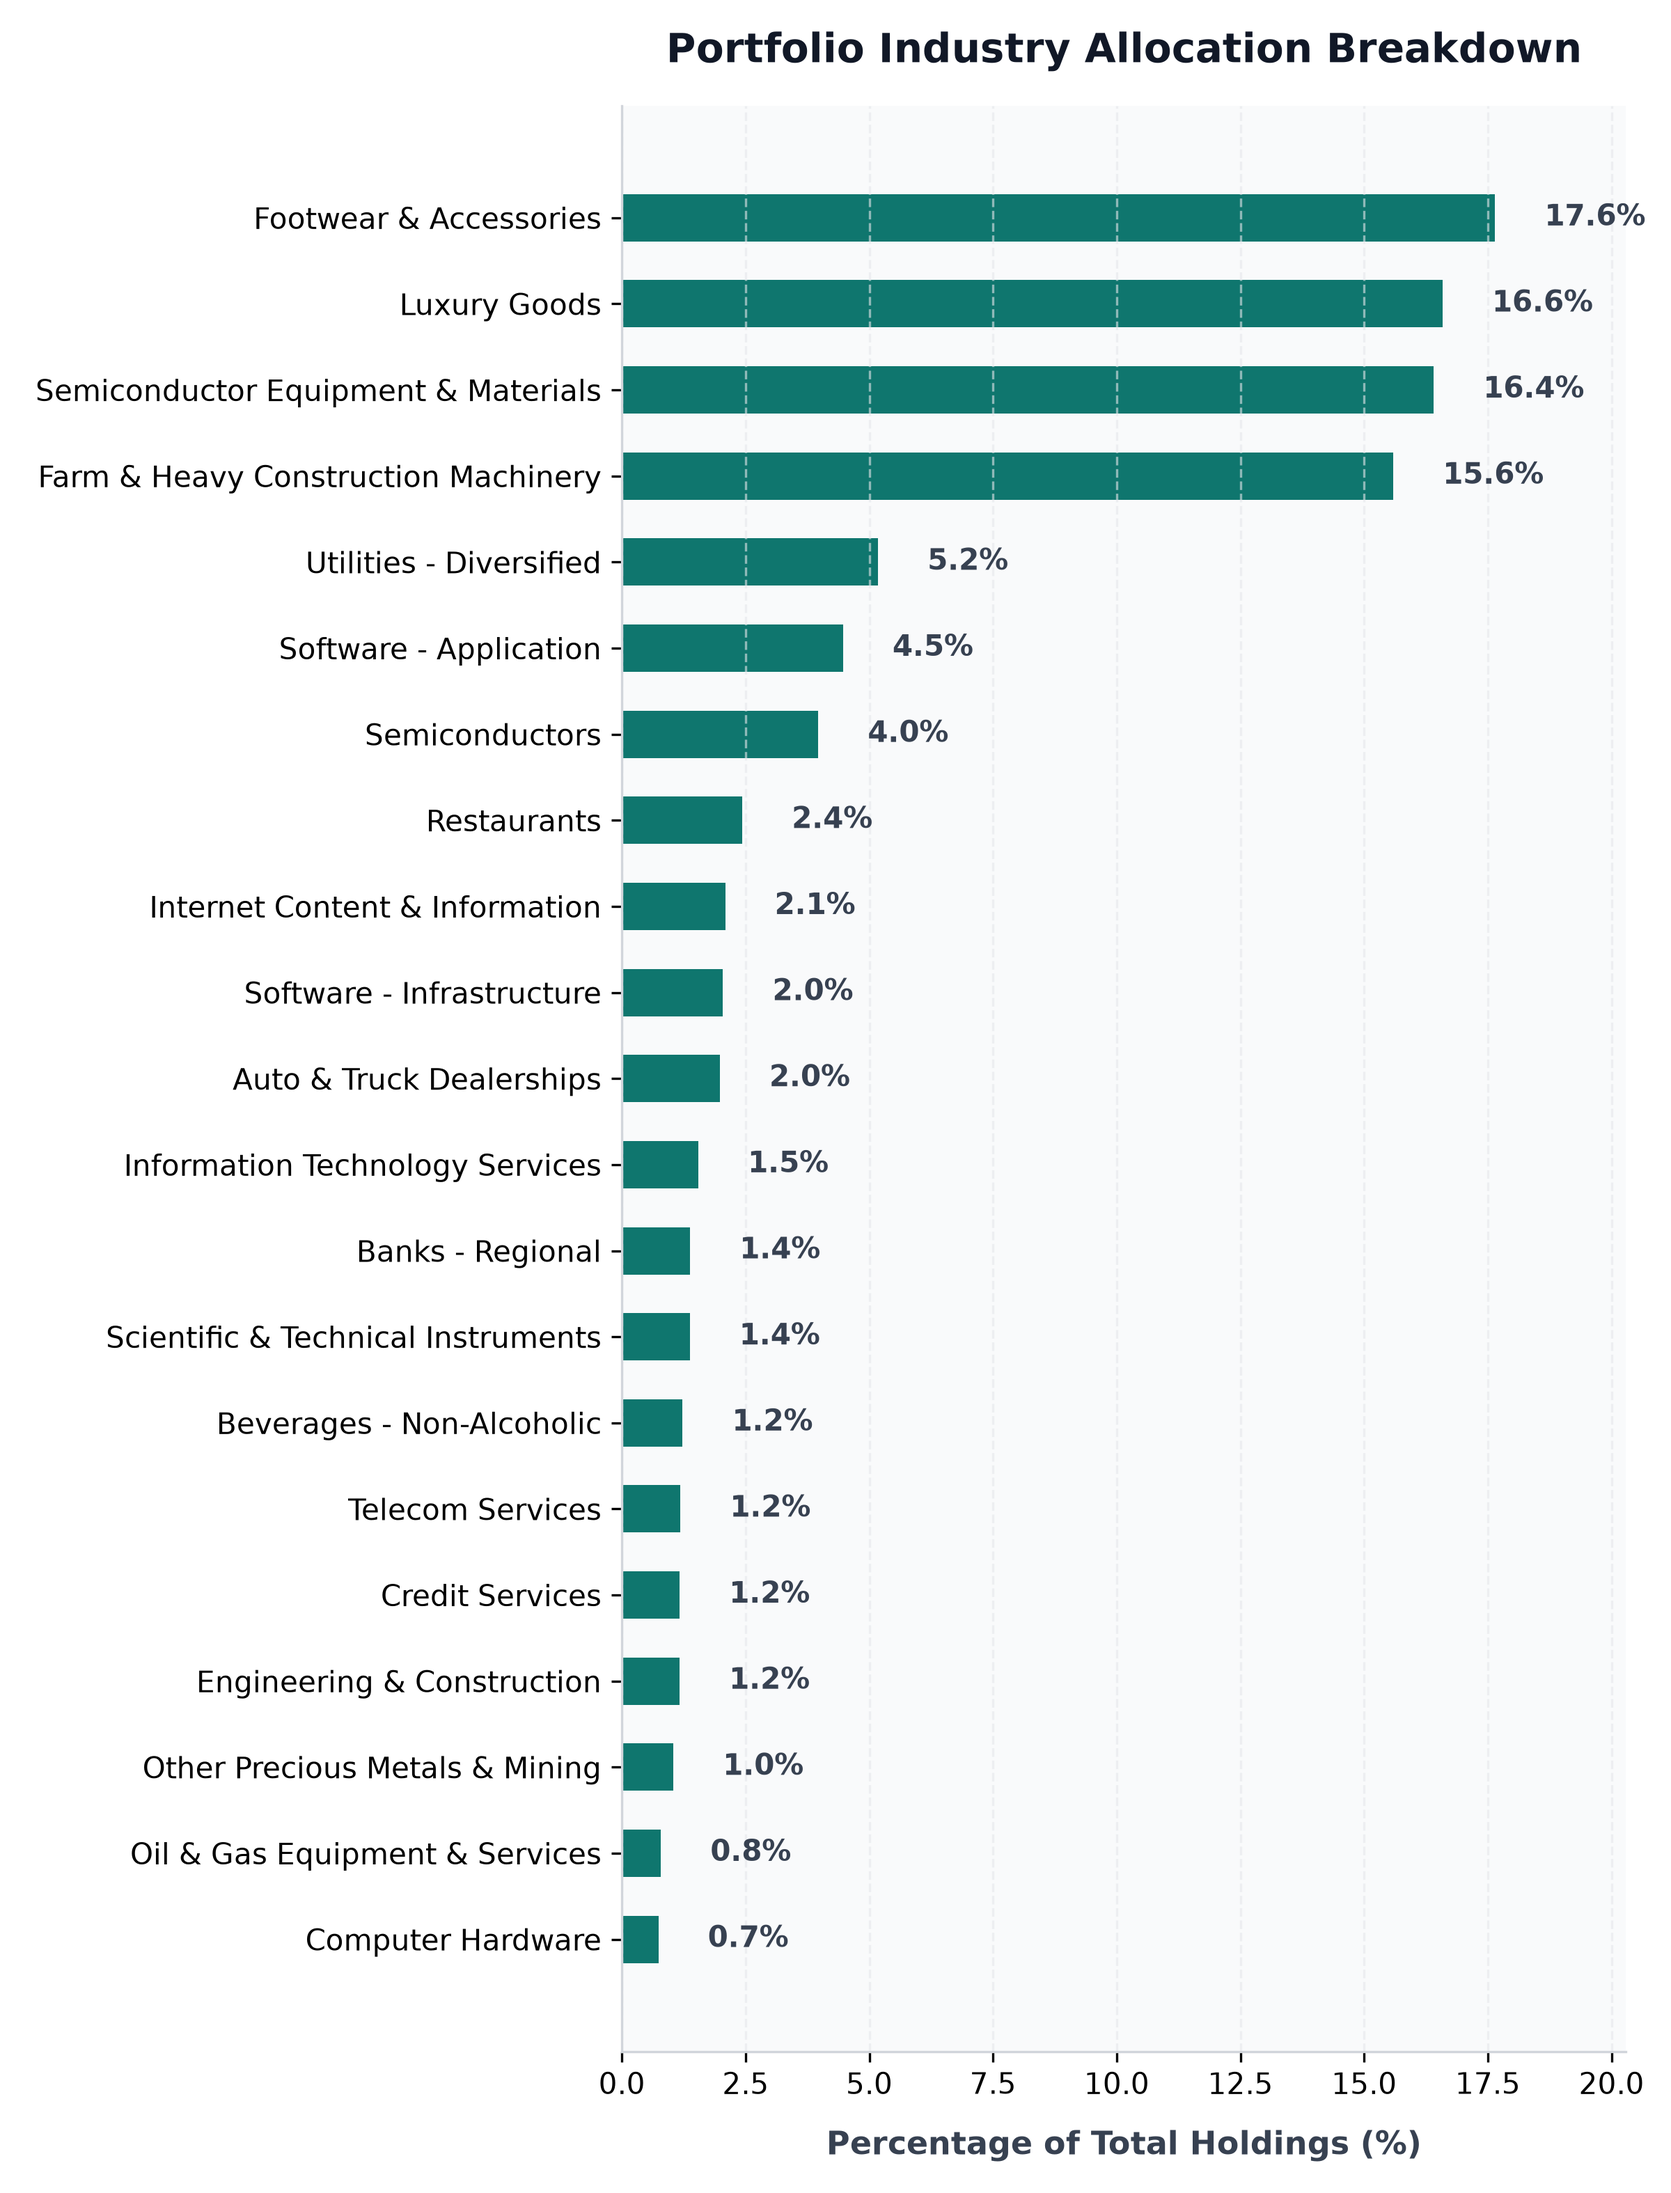
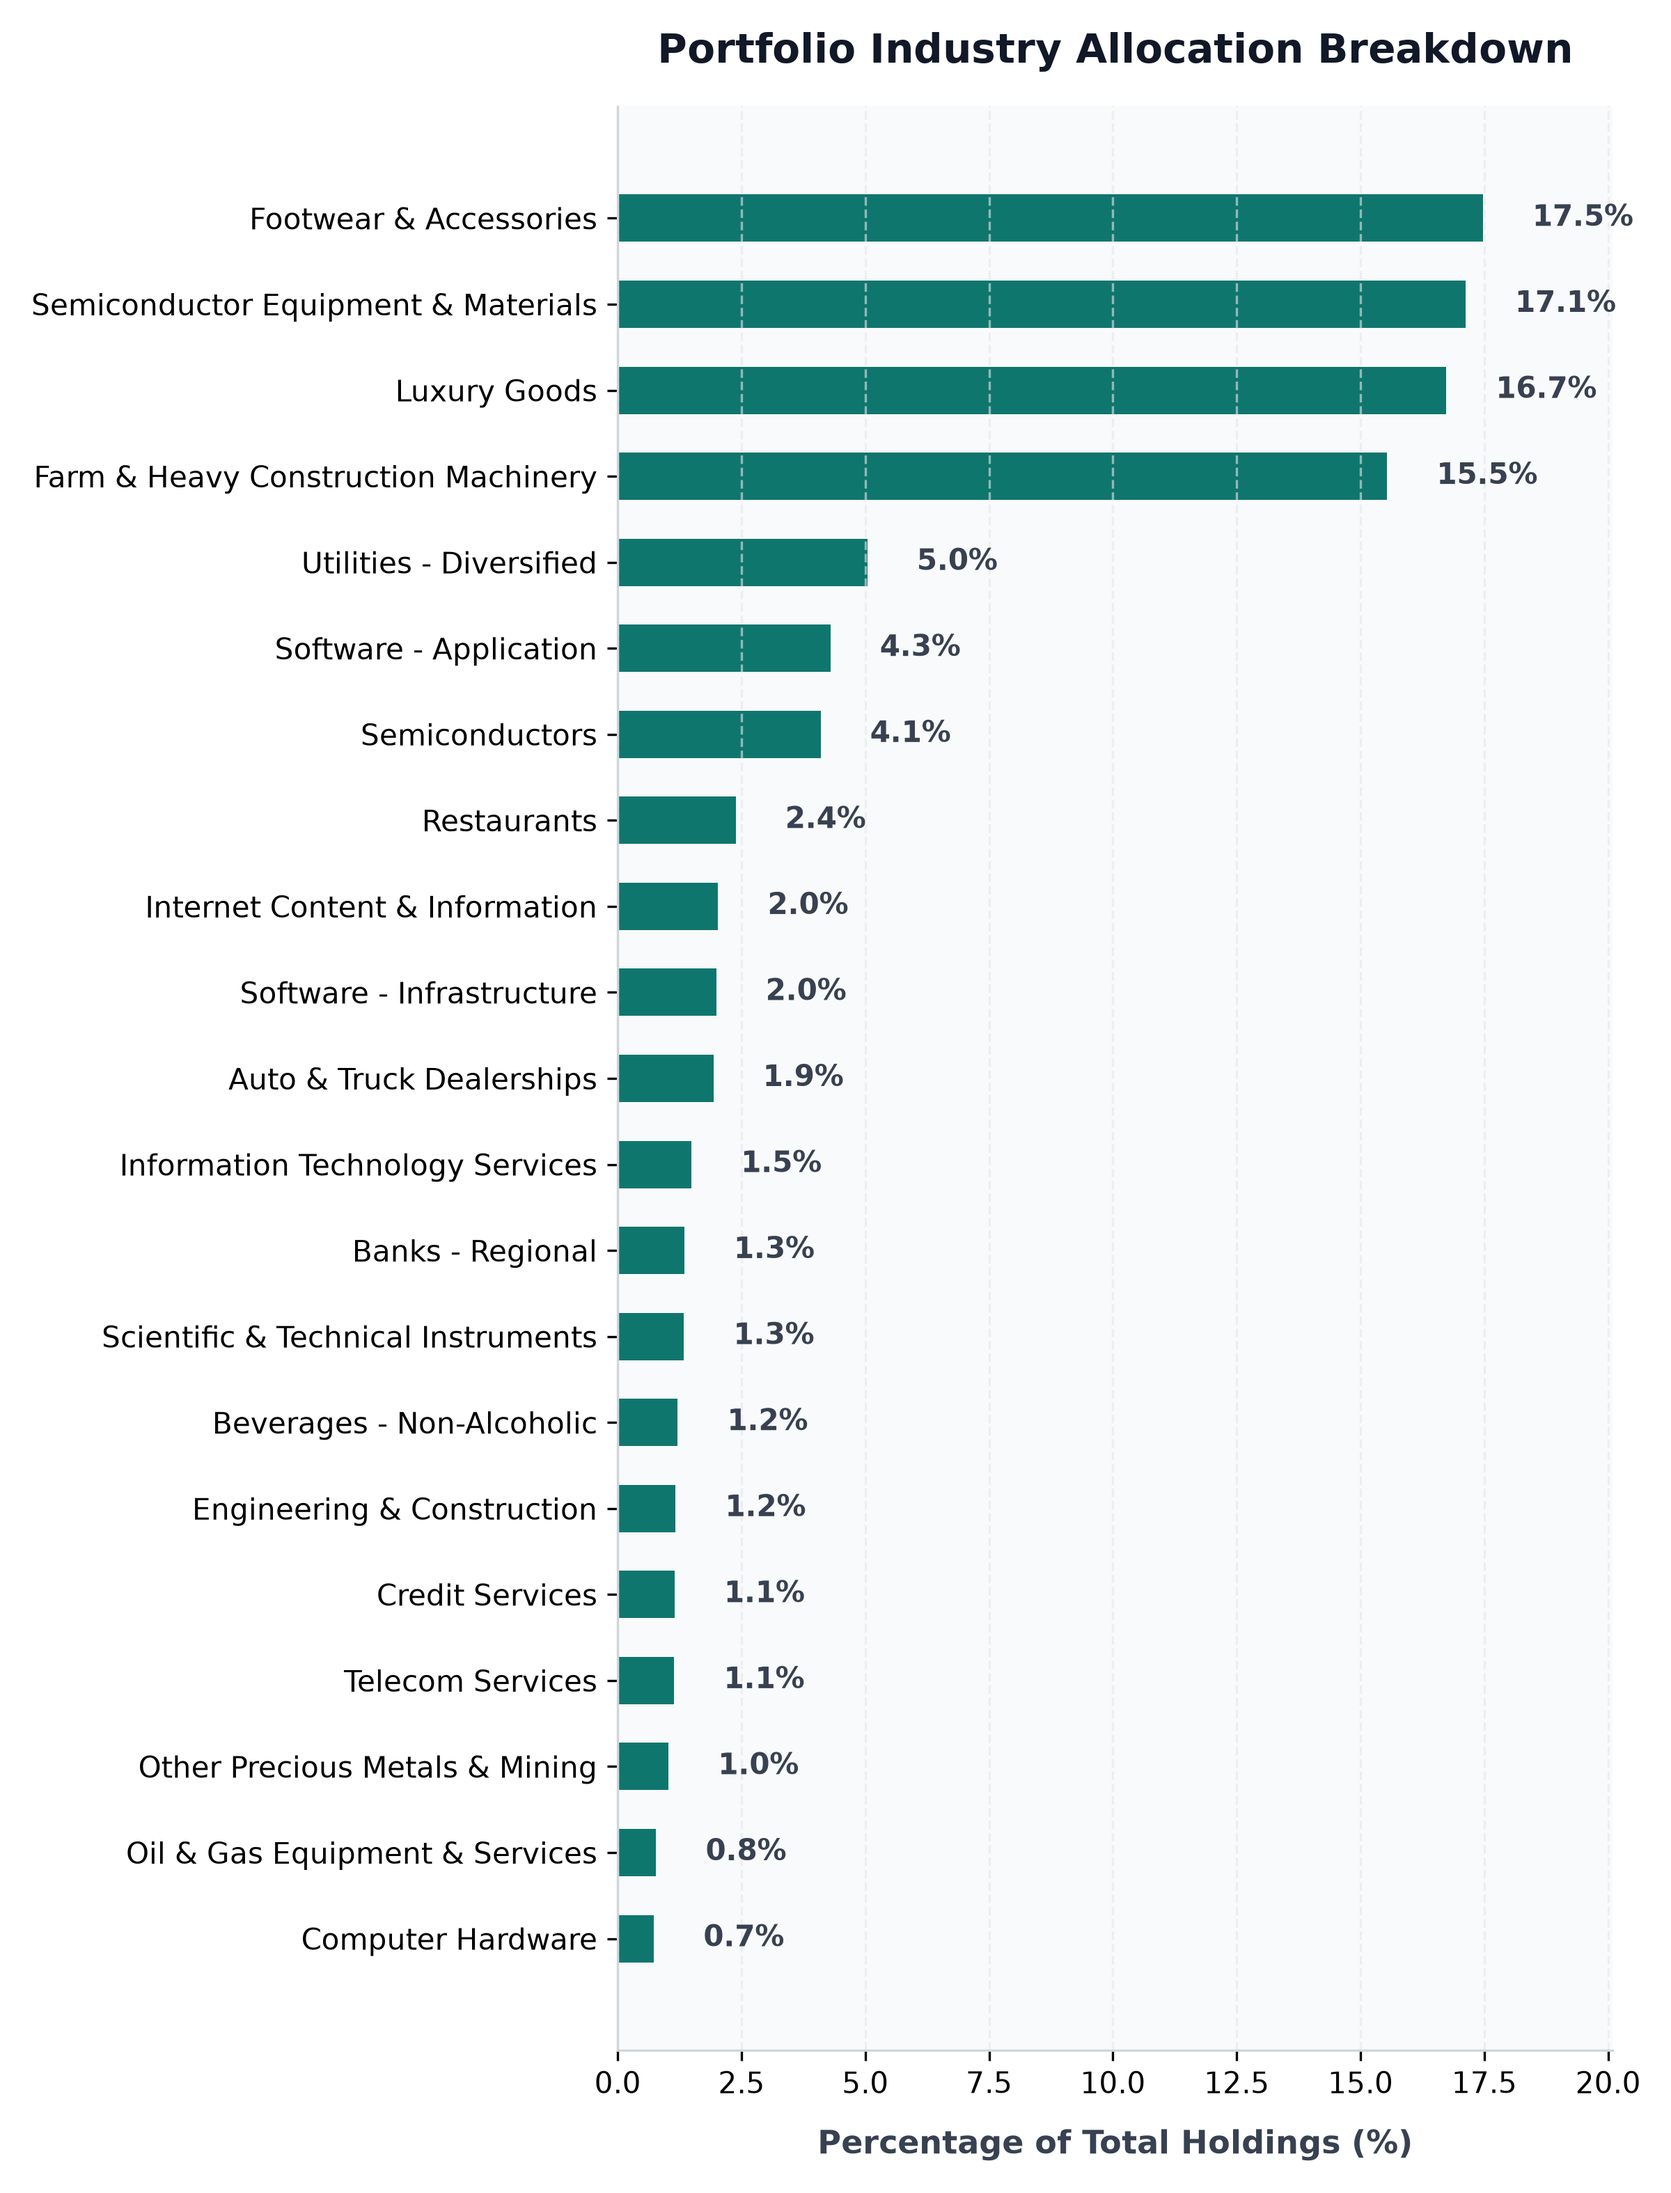
auto: daily portfolio status update - 2026-11-10 00:00:14

diff --git a/src/utils/getPortfolioMetrics.ts b/src/utils/getPortfolioMetrics.ts
@@ -334,3 +334,4 @@ export function getPortfolioMetrics(): PortfolioMetrics {
     tier3Count,
   };
 }
+

diff --git a/src/content/posts/portfolio-performance.md b/src/content/posts/portfolio-performance.md
@@ -1,6 +1,6 @@
 ---
 title: "BadOmen Algorithmic Portfolio Performance & PnL Report"
-pubDatetime: 2026-11-07T06:05:15.388546+08:00
+pubDatetime: 2026-11-10T00:00:14.206508+08:00
 description: "Live performance metrics, active holdings, and historic equity curve for the BadOmen automated paper trading portfolio."
 featured: true
 draft: false
@@ -10,63 +10,63 @@ tags:
   - pnl
 ---
 
-# BadOmen Portfolio Performance & PnL Report
+# 📈 BadOmen Portfolio Performance & PnL Report
 Welcome to the live performance dashboard for **BadOmen**, our automated algorithmic growth portfolio. This page displays the historic PnL growth curve, account statistics, active position metrics, and recent historical exits. Updated daily via Alpaca Paper Account integrations.
 
-## Portfolio Summary
+## 📊 Portfolio Summary
 | Performance Metric | Value | description |
 | :--- | :--- | :--- |
-| **Net Portfolio Equity** | **$102,383.47** | Total current liquidation value of cash and stock holdings |
-| **Total Unrealized P&L** | 🔴 **$-461.17** (-0.45%) | Total return of current open holdings |
+| **Net Portfolio Equity** | **$105,427.70** | Total current liquidation value of cash and stock holdings |
+| **Total Unrealized P&L** | 🟢 **+$2,586.12** (+2.51%) | Total return of current open holdings |
 | **Cash Balance** | $16,312.67 | Idle reserve currency available for limit orders |
-| **Buying Power** | $306,248.91 | Margin-backed buying power for entry allocations |
-| **Report Updated** | `2026-11-07 06:05:15 (SGT)` | Timestamp of daily execution and sync run |
+| **Buying Power** | $314,772.76 | Margin-backed buying power for entry allocations |
+| **Report Updated** | `2026-11-10 00:00:14 (SGT)` | Timestamp of daily execution and sync run |
 
-## Net Equity Growth Curve
+## 📈 Net Equity Growth Curve
 The chart below illustrates the historical performance of the account starting from our baseline capital funding of $100,000.00.
 
 ![Portfolio PnL History](/pnl_chart.png)
 
-## Industry Allocation Breakdown
+## 🏷 Industry Allocation Breakdown
 The chart below illustrates the exposure of our currently held active positions grouped by industry classification.
 
 ![Industry Allocation Breakdown](/industry_chart.png)
 
-## Current Position Holdings
+## 💼 Current Position Holdings
 | Ticker | Industry | Shares Owned | Average Entry Cost | Current Price | Unrealized P&L | Return (%) |
 | :--- | :--- | :--- | :--- | :--- | :--- | :--- |
-| **AN** | Auto & Truck Dealerships | 5 | $188.51 | $184.00 | 🔴 $-22.54 | -2.39% |
-| **AVGO** | Semiconductors | 1 | $385.71 | $294.75 | 🔴 $-90.96 | -23.58% |
-| **BIRK** | Footwear & Accessories | 407 | $37.32 | $37.32 | 🟢 +$0.93 | +0.01% |
-| **BLBD** | Farm & Heavy Construction Machinery | 231 | $65.52 | $58.09 | 🔴 $-1,715.40 | -11.34% |
-| **BVN** | Other Precious Metals & Mining | 32 | $31.88 | $27.99 | 🔴 $-124.32 | -12.19% |
-| **CELH** | Beverages - Non-Alcoholic | 33 | $29.71 | $32.02 | 🟢 +$76.09 | +7.76% |
-| **CPRI** | Luxury Goods | 695 | $14.13 | $20.54 | 🟢 +$4,453.48 | +45.34% |
-| **DUOL** | Software - Application | 14 | $131.04 | $160.39 | 🟢 +$410.84 | +22.39% |
-| **FIS** | Information Technology Services | 23 | $41.79 | $28.69 | 🔴 $-301.32 | -31.35% |
-| **GDDY** | Software - Infrastructure | 6 | $76.21 | $114.38 | 🟢 +$229.02 | +50.09% |
-| **GDS** | Information Technology Services | 30 | $32.77 | $22.35 | 🔴 $-312.60 | -31.80% |
-| **GGAL** | Banks - Regional | 17 | $56.04 | $29.44 | 🔴 $-452.19 | -47.47% |
-| **GOOGL** | Internet Content & Information | 3 | $319.44 | $285.15 | 🔴 $-102.87 | -10.73% |
-| **GPI** | Auto & Truck Dealerships | 3 | $316.15 | $261.35 | 🔴 $-164.40 | -17.33% |
-| **HUBS** | Software - Application | 8 | $221.18 | $200.21 | 🔴 $-167.77 | -9.48% |
-| **ITRI** | Scientific & Technical Instruments | 12 | $81.80 | $98.44 | 🟢 +$199.68 | +20.34% |
-| **KBR** | Engineering & Construction | 27 | $36.23 | $37.17 | 🟢 +$25.30 | +2.59% |
-| **LRCX** | Semiconductor Equipment & Materials | 70 | $214.93 | $201.75 | 🔴 $-922.82 | -6.13% |
-| **NESR** | Oil & Gas Equipment & Services | 34 | $28.74 | $19.96 | 🔴 $-298.52 | -30.55% |
-| **NU** | Banks - Regional | 57 | $11.60 | $12.04 | 🟢 +$25.17 | +3.81% |
-| **ON** | Semiconductors | 10 | $90.45 | $63.81 | 🔴 $-266.46 | -29.46% |
-| **ORCL** | Software - Infrastructure | 5 | $181.95 | $116.05 | 🔴 $-329.50 | -36.22% |
-| **PATH** | Software - Infrastructure | 38 | $10.25 | $12.97 | 🟢 +$103.36 | +26.54% |
-| **PYPL** | Credit Services | 17 | $56.05 | $59.14 | 🟢 +$52.53 | +5.51% |
-| **QCOM** | Semiconductors | 15 | $193.68 | $165.55 | 🔴 $-422.02 | -14.53% |
-| **SMCI** | Computer Hardware | 22 | $29.25 | $28.83 | 🔴 $-9.24 | -1.44% |
-| **SRE** | Utilities - Diversified | 57 | $84.75 | $78.17 | 🔴 $-375.20 | -7.77% |
-| **T** | Telecom Services | 47 | $20.85 | $21.68 | 🟢 +$38.79 | +3.96% |
-| **WEN** | Restaurants | 257 | $8.02 | $8.15 | 🟢 +$32.55 | +1.58% |
-| **ZG** | Internet Content & Information | 31 | $31.35 | $30.36 | 🔴 $-30.79 | -3.17% |
+| **AN** | Auto & Truck Dealerships | 5 | $188.51 | $185.09 | 🔴 $-17.07 | -1.81% |
+| **AVGO** | Semiconductors | 1 | $385.71 | $320.16 | 🔴 $-65.55 | -16.99% |
+| **BIRK** | Footwear & Accessories | 407 | $37.32 | $38.26 | 🟢 +$381.47 | +2.51% |
+| **BLBD** | Farm & Heavy Construction Machinery | 231 | $65.52 | $59.94 | 🔴 $-1,287.47 | -8.51% |
+| **BVN** | Other Precious Metals & Mining | 32 | $31.88 | $28.59 | 🔴 $-105.12 | -10.31% |
+| **CELH** | Beverages - Non-Alcoholic | 33 | $29.71 | $32.72 | 🟢 +$99.24 | +10.12% |
+| **CPRI** | Luxury Goods | 695 | $14.13 | $21.45 | 🟢 +$5,089.41 | +51.82% |
+| **DUOL** | Software - Application | 14 | $131.04 | $155.50 | 🟢 +$342.38 | +18.66% |
+| **FIS** | Information Technology Services | 23 | $41.79 | $28.12 | 🔴 $-314.30 | -32.70% |
+| **GDDY** | Software - Infrastructure | 6 | $76.21 | $113.05 | 🟢 +$221.04 | +48.34% |
+| **GDS** | Information Technology Services | 30 | $32.77 | $22.66 | 🔴 $-303.30 | -30.85% |
+| **GGAL** | Banks - Regional | 17 | $56.04 | $29.35 | 🔴 $-453.72 | -47.63% |
+| **GOOGL** | Internet Content & Information | 3 | $319.44 | $293.33 | 🔴 $-78.33 | -8.17% |
+| **GPI** | Auto & Truck Dealerships | 3 | $316.15 | $265.47 | 🔴 $-152.04 | -16.03% |
+| **HUBS** | Software - Application | 8 | $221.18 | $206.23 | 🔴 $-119.61 | -6.76% |
+| **ITRI** | Scientific & Technical Instruments | 12 | $81.80 | $99.42 | 🟢 +$211.44 | +21.54% |
+| **KBR** | Engineering & Construction | 27 | $36.23 | $38.59 | 🟢 +$63.64 | +6.50% |
+| **LRCX** | Semiconductor Equipment & Materials | 70 | $214.93 | $217.96 | 🟢 +$211.84 | +1.41% |
+| **NESR** | Oil & Gas Equipment & Services | 34 | $28.74 | $20.34 | 🔴 $-285.60 | -29.23% |
+| **NU** | Banks - Regional | 57 | $11.60 | $12.28 | 🟢 +$38.56 | +5.83% |
+| **ON** | Semiconductors | 10 | $90.45 | $68.99 | 🔴 $-214.65 | -23.73% |
+| **ORCL** | Software - Infrastructure | 5 | $181.95 | $119.66 | 🔴 $-311.45 | -34.23% |
+| **PATH** | Software - Infrastructure | 38 | $10.25 | $13.02 | 🟢 +$105.07 | +26.98% |
+| **PYPL** | Credit Services | 17 | $56.05 | $60.20 | 🟢 +$70.47 | +7.40% |
+| **QCOM** | Semiconductors | 15 | $193.68 | $176.06 | 🔴 $-264.37 | -9.10% |
+| **SMCI** | Computer Hardware | 22 | $29.25 | $29.64 | 🟢 +$8.58 | +1.33% |
+| **SRE** | Utilities - Diversified | 57 | $84.75 | $78.81 | 🔴 $-338.72 | -7.01% |
+| **T** | Telecom Services | 47 | $20.85 | $21.66 | 🟢 +$38.30 | +3.91% |
+| **WEN** | Restaurants | 257 | $8.02 | $8.26 | 🟢 +$60.72 | +2.94% |
+| **ZG** | Internet Content & Information | 31 | $31.35 | $29.91 | 🔴 $-44.74 | -4.60% |
 
-## Recent Realized Trades
+## 🔴 Recent Realized Trades
 | Ticker | Shares Sold | Entry Price | Exit Price | Strategy Trigger | Realized Return | Exit Date |
 | :--- | :--- | :--- | :--- | :--- | :--- | :--- |
 | **CPRI** | 347 | $13.78 | $20.43 | Tier 1: Profit Lock (Up 30-50%) | 🟢 **+$+2307.55** (++48.26%) | 2026-11-03 |
